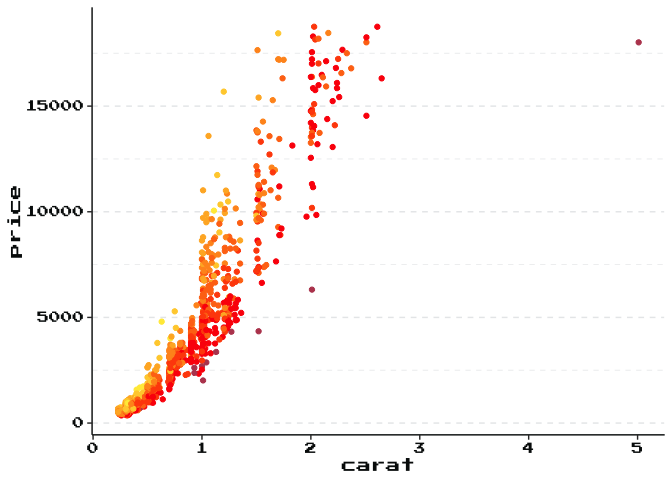
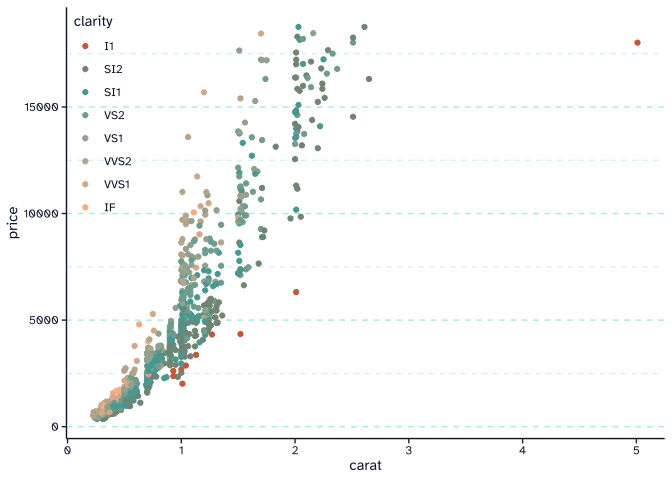
continue working on readme

diff --git a/README.md b/README.md
@@ -24,26 +24,42 @@ You can install the development version of ggchameleon from
 devtools::install_github("aarongraybill/ggchameleon")
 ```
 
-## Example
+## Design Principle
+
+ggchameleon gets its name from two key design principles:
+
+1.  The chameleon’s ability to change colors at will
+2.  The chameleon’s ability to blend into the background of its
+    environment.
+
+On the color changing side, ggcchameleon allows the user to flexibly
+change theme elements (color, font, size of lines, etc.). ggchameleon is
+written to make these changes reproducible and easy to access with the
+`save_current_theme` function.
+
+However, much a like a real chameleon in dense rain forest foliage,
+ggchameleon is very hard to spot in your code! ggchameleon both reduces
+boilerplate and maintains compatability with standard `ggplot2`. In
+fact, when used as intended, the only place ggchameleon appears in your
+scripts is `library(ggchameleon)`. All of the theming is loaded on
+startup from your configurations or the package defaults. If you were to
+remove the `library(ggchameleon)` at the beginning of your code, you
+would produce plots with exactly the same information, now in the
+default ggplot theme.
+
+## Basic Usage
 
 First, here’s how a standard ggplot2 looks:
 
 ``` r
 library(ggplot2)
 library(dplyr)
-#> 
-#> Attaching package: 'dplyr'
-#> The following objects are masked from 'package:stats':
-#> 
-#>     filter, lag
-#> The following objects are masked from 'package:base':
-#> 
-#>     intersect, setdiff, setequal, union
 
 set.seed(1)
 d <- diamonds |> slice_sample(n=1000)
 ggplot(d)+
-  geom_point(aes(x=carat,y=price,color=clarity))
+  geom_point(aes(x=carat,y=price,color=cut))+
+  ggtitle("My Cool Title")
 ```
 
 <img src="man/figures/README-example-1.png" width="100%" />
@@ -78,6 +94,7 @@ also edit any of the fonts, as seen below:
 
 ``` r
 ggchameleon:::edit_the_fonts(sans="Press Start 2P")
+#> Installing Fonts
 ggplot(d)+
   geom_point(aes(x=carat,y=price,color=clarity))
 ```
@@ -104,6 +121,4 @@ automatically applied the next time we load this project.
 
 ``` r
 ggchameleon:::save_current_theme()
-#> "chameleon.yml" exists, saving as: "chameleon_a37f32814435.yml"
-#> Consider Renaming the File to Something More Relevant
 ```
